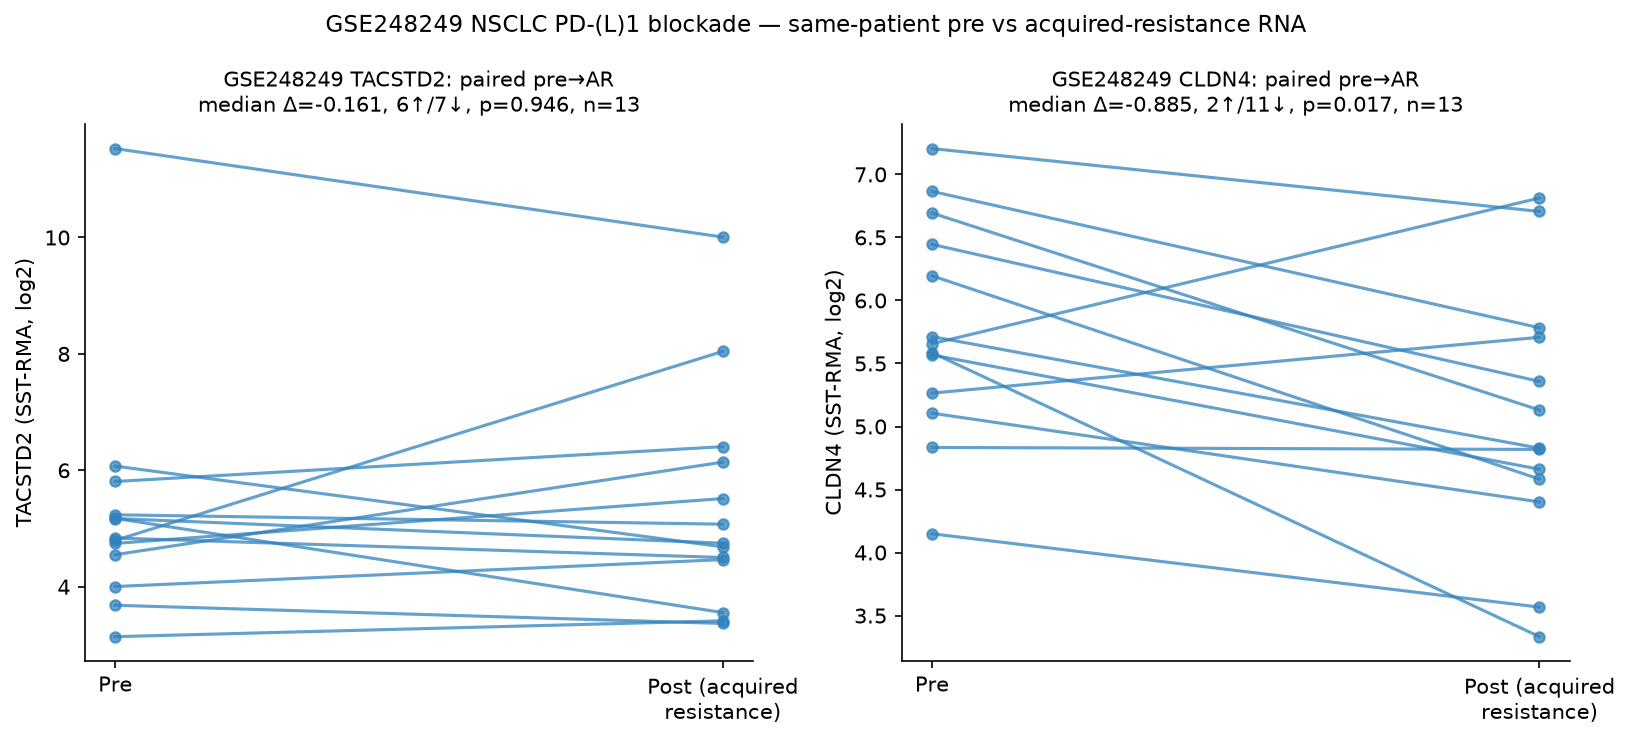
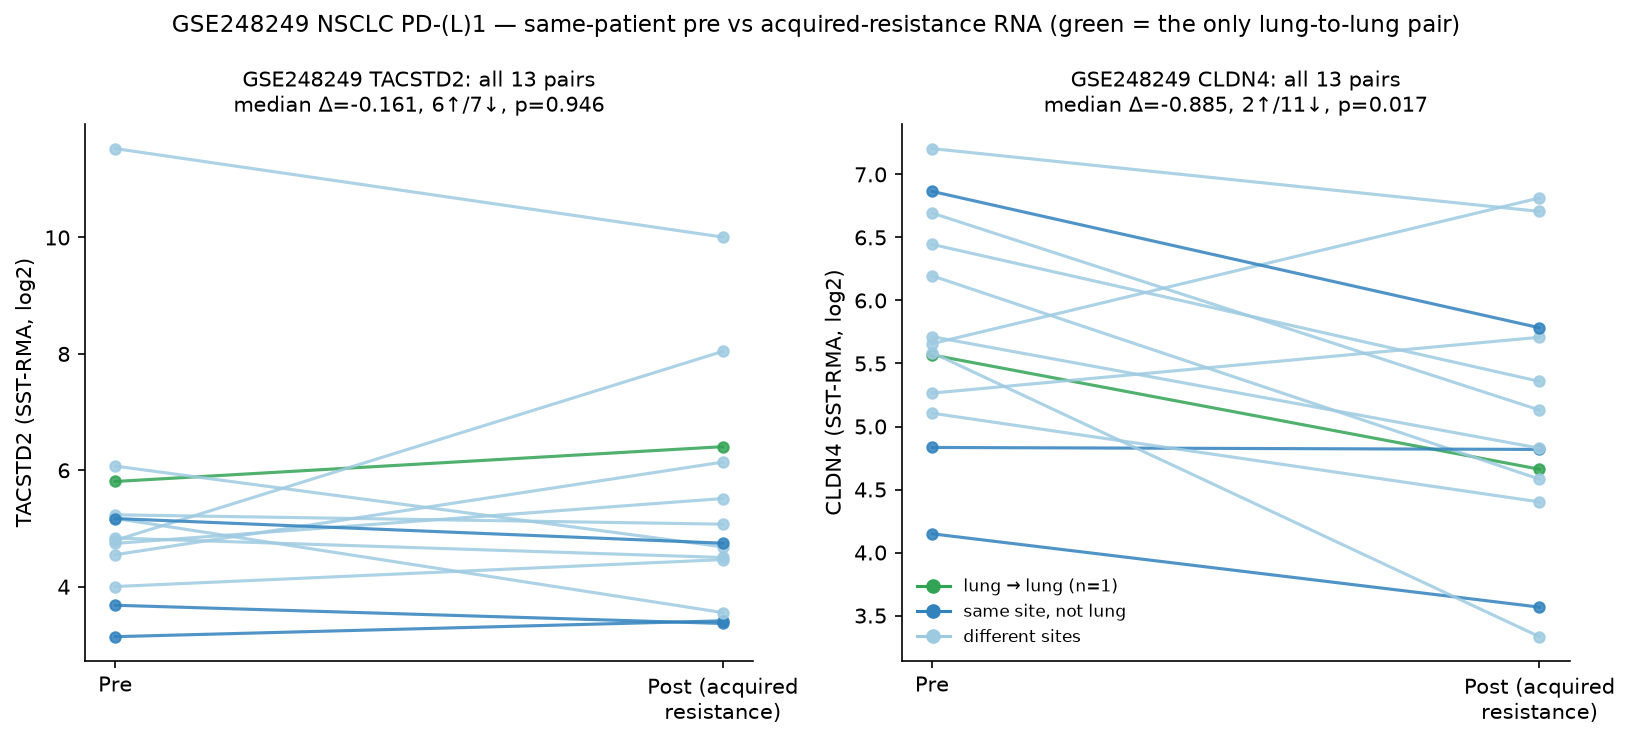
Harden A7 analog: GSE248249 site-matched sensitivity
Only 1 of 13 pairs is lung-to-lung (Patient 01, TACSTD2 +0.60 log2,
descriptive). Same-site n=4 is a coin flip (p=1.00). All-pair TACSTD2
remains flat (p=0.95). Verdict unchanged: A7 rise not supported.

diff --git a/scripts/fable_paired/06_paired_gse248249.py b/scripts/fable_paired/06_paired_gse248249.py
@@ -14,7 +14,6 @@ Probe mapping (clariomdhumantranscriptcluster.db / Entrez):
 from __future__ import annotations
 
 import gzip
-import re
 
 import numpy as np
 import pandas as pd
@@ -123,47 +122,95 @@ def main() -> None:
     pre_df = pre_df[~pre_df.index.duplicated(keep="first")]
     common = pre_df.index.intersection(post_df.index)
 
-    pair_rows = []
-    fig, axes = plt.subplots(1, 2, figsize=(11, 5))
-    for ax, gene in zip(axes, C.TARGET_GENES):
-        pre_v = pre_df.loc[common, gene].astype(float)
-        post_v = post_df.loc[common, gene].astype(float)
+    pair_meta = pd.DataFrame({
+        "patient": list(common),
+        "pre_site": pre_df.loc[common, "tumor site"].astype(str).values,
+        "post_site": post_df.loc[common, "tumor site"].astype(str).values,
+    })
+    pair_meta["same_site"] = pair_meta["pre_site"].str.lower() == pair_meta["post_site"].str.lower()
+    pair_meta["lung_to_lung"] = (
+        pair_meta["pre_site"].str.lower().eq("lung")
+        & pair_meta["post_site"].str.lower().eq("lung")
+    )
+    pair_meta["either_lung"] = (
+        pair_meta["pre_site"].str.lower().eq("lung")
+        | pair_meta["post_site"].str.lower().eq("lung")
+    )
+
+    def _paired_row(gene, mask, label):
+        pts = pair_meta.loc[mask, "patient"] if mask is not None else pair_meta["patient"]
+        pre_v = pre_df.loc[pts, gene].astype(float)
+        post_v = post_df.loc[pts, gene].astype(float)
         stat, p, med_delta = paired_test(pre_v.values, post_v.values)
         n_up = int((post_v.values - pre_v.values > 0).sum())
         n_dn = int((post_v.values - pre_v.values < 0).sum())
-        rows.append({
-            "dataset": "GSE248249", "gene": gene,
-            "comparison": "paired post_vs_pre (acquired resistance)",
-            "n_hi": int(len(common)), "n_lo": int(len(common)),
-            "log2fc_hi_vs_lo": float(np.mean(post_v - pre_v)),
+        return {
+            "dataset": "GSE248249", "gene": gene, "comparison": label,
+            "n_hi": int(len(pts)), "n_lo": int(len(pts)),
+            "log2fc_hi_vs_lo": float(np.mean(post_v - pre_v)) if len(pts) else np.nan,
             "auc": np.nan, "test": "Wilcoxon signed-rank",
             "statistic": stat, "p_value": p,
-            "n_pairs": int(len(common)),
+            "n_pairs": int(len(pts)),
             "n_pairs_up": n_up, "n_pairs_down": n_dn,
             "median_delta_post_minus_pre": med_delta,
-        })
+        }, pre_v, post_v
+
+    pair_rows = []
+    fig, axes = plt.subplots(1, 2, figsize=(11, 5))
+    for ax, gene in zip(axes, C.TARGET_GENES):
+        rec, pre_v, post_v = _paired_row(
+            gene, None, "paired post_vs_pre (acquired resistance)")
+        rows.append(rec)
         for pt in common:
+            same = bool(pair_meta.loc[pair_meta.patient == pt, "same_site"].iloc[0])
+            lung = bool(pair_meta.loc[pair_meta.patient == pt, "lung_to_lung"].iloc[0])
+            color = "#31a354" if lung else ("#3182bd" if same else "#9ecae1")
             ax.plot([0, 1], [pre_v.loc[pt], post_v.loc[pt]], "-o",
-                    color="#3182bd", alpha=0.75, markersize=5)
+                    color=color, alpha=0.85, markersize=5)
         ax.set_xticks([0, 1])
         ax.set_xticklabels(["Pre", "Post (acquired\nresistance)"])
         ax.set_ylabel(f"{gene} (SST-RMA, log2)")
-        ax.set_title(f"GSE248249 {gene}: paired pre→AR\n"
-                     f"median Δ={med_delta:+.3f}, {n_up}↑/{n_dn}↓, p={p:.3f}, n={len(common)}",
-                     fontsize=10)
+        ax.set_title(
+            f"GSE248249 {gene}: all 13 pairs\n"
+            f"median Δ={rec['median_delta_post_minus_pre']:+.3f}, "
+            f"{rec['n_pairs_up']}↑/{rec['n_pairs_down']}↓, p={rec['p_value']:.3f}",
+            fontsize=10)
         ax.spines[["top", "right"]].set_visible(False)
         pair_rows.append(pd.DataFrame({
             "patient": list(common), "gene": gene,
             "pre": pre_v.loc[common].values, "post": post_v.loc[common].values,
             "delta": (post_v - pre_v).loc[common].values,
+            "pre_site": pair_meta.set_index("patient").loc[common, "pre_site"].values,
+            "post_site": pair_meta.set_index("patient").loc[common, "post_site"].values,
+            "same_site": pair_meta.set_index("patient").loc[common, "same_site"].values,
+            "lung_to_lung": pair_meta.set_index("patient").loc[common, "lung_to_lung"].values,
         }))
 
-    fig.suptitle("GSE248249 NSCLC PD-(L)1 blockade — same-patient pre vs acquired-resistance RNA",
+    handles = [
+        plt.Line2D([0], [0], color="#31a354", marker="o", label="lung → lung (n=1)"),
+        plt.Line2D([0], [0], color="#3182bd", marker="o", label="same site, not lung"),
+        plt.Line2D([0], [0], color="#9ecae1", marker="o", label="different sites"),
+    ]
+    axes[1].legend(handles=handles, fontsize=8, frameon=False, loc="best")
+    fig.suptitle("GSE248249 NSCLC PD-(L)1 — same-patient pre vs acquired-resistance RNA "
+                 "(green = the only lung-to-lung pair)",
                  fontsize=11)
     savefig(fig, C.FIGURES_DIR / "fig5_gse248249_paired_pre_post.png")
 
     pd.concat(pair_rows, ignore_index=True).to_csv(
         C.TABLES_DIR / "gse248249_patient_pairs.csv", index=False)
+    pair_meta.to_csv(C.TABLES_DIR / "gse248249_pair_sites.csv", index=False)
+
+    # sensitivity: same anatomic site; lung-to-lung (n=1, descriptive only)
+    for gene in C.TARGET_GENES:
+        rec, _, _ = _paired_row(
+            gene, pair_meta["same_site"],
+            "paired post_vs_pre SAME SITE (sensitivity)")
+        rows.append(rec)
+        rec, _, _ = _paired_row(
+            gene, pair_meta["lung_to_lung"],
+            "paired post_vs_pre LUNG-to-LUNG (n=1, descriptive)")
+        rows.append(rec)
 
     # also report EPCAM / CD274 paired as controls
     for gene in ["EPCAM", "CD274"]:

diff --git a/scripts/fable_paired/05_verify.py b/scripts/fable_paired/05_verify.py
@@ -78,6 +78,13 @@ def main() -> None:
     checks.append({"check": "V7 GSE248249 TACSTD2/CLDN4 finite",
                    "n_samples": int(len(long)), "pass": finite and len(long) == 42})
 
+    sites = pd.read_csv(C.TABLES_DIR / "gse248249_pair_sites.csv")
+    n_lung = int(sites["lung_to_lung"].sum())
+    n_same = int(sites["same_site"].sum())
+    checks.append({"check": "V8 GSE248249 only 1 lung-to-lung pair",
+                   "n_lung_to_lung": n_lung, "n_same_site": n_same,
+                   "pass": bool(n_lung == 1 and n_same == 4 and len(sites) == 13)})
+
     report = pd.DataFrame(checks)
     report.to_csv(C.TABLES_DIR / "verification_report.csv", index=False)
     with pd.option_context("display.max_columns", None, "display.width", 200):

diff --git a/notes/fable_paired/hunt_paired_ici_lung.md b/notes/fable_paired/hunt_paired_ici_lung.md
@@ -17,8 +17,9 @@ sibling PR #102 (`cursor/claim-a6-a11-a7-8834`).
 | A7 public paired lung TROP2 **IHC** | None with reusable numeric pairs | — | Inoue 2025 mixed treatments (not ICI-only); JCO 8591 abstract not deposited |
 
 **A7 analog claim: NOT SUPPORTED** in public paired ICI lung RNA. The hypothesized rise
-is not reproduced. The only same-patient lung ICI tumor RNA (GSE248249) shows TACSTD2
-unchanged and CLDN4 decreased at acquired resistance.
+is not reproduced. GSE248249 TACSTD2 is flat across 13 pairs (p=0.95) and across the
+4 same-site pairs (p=1.00). **Only 1 pair is lung-to-lung** (Patient 01, Δlog2 +0.60,
+descriptive). CLDN4 falls in 11/13 pairs (p=0.017).
 
 ## Datasets inspected
 
